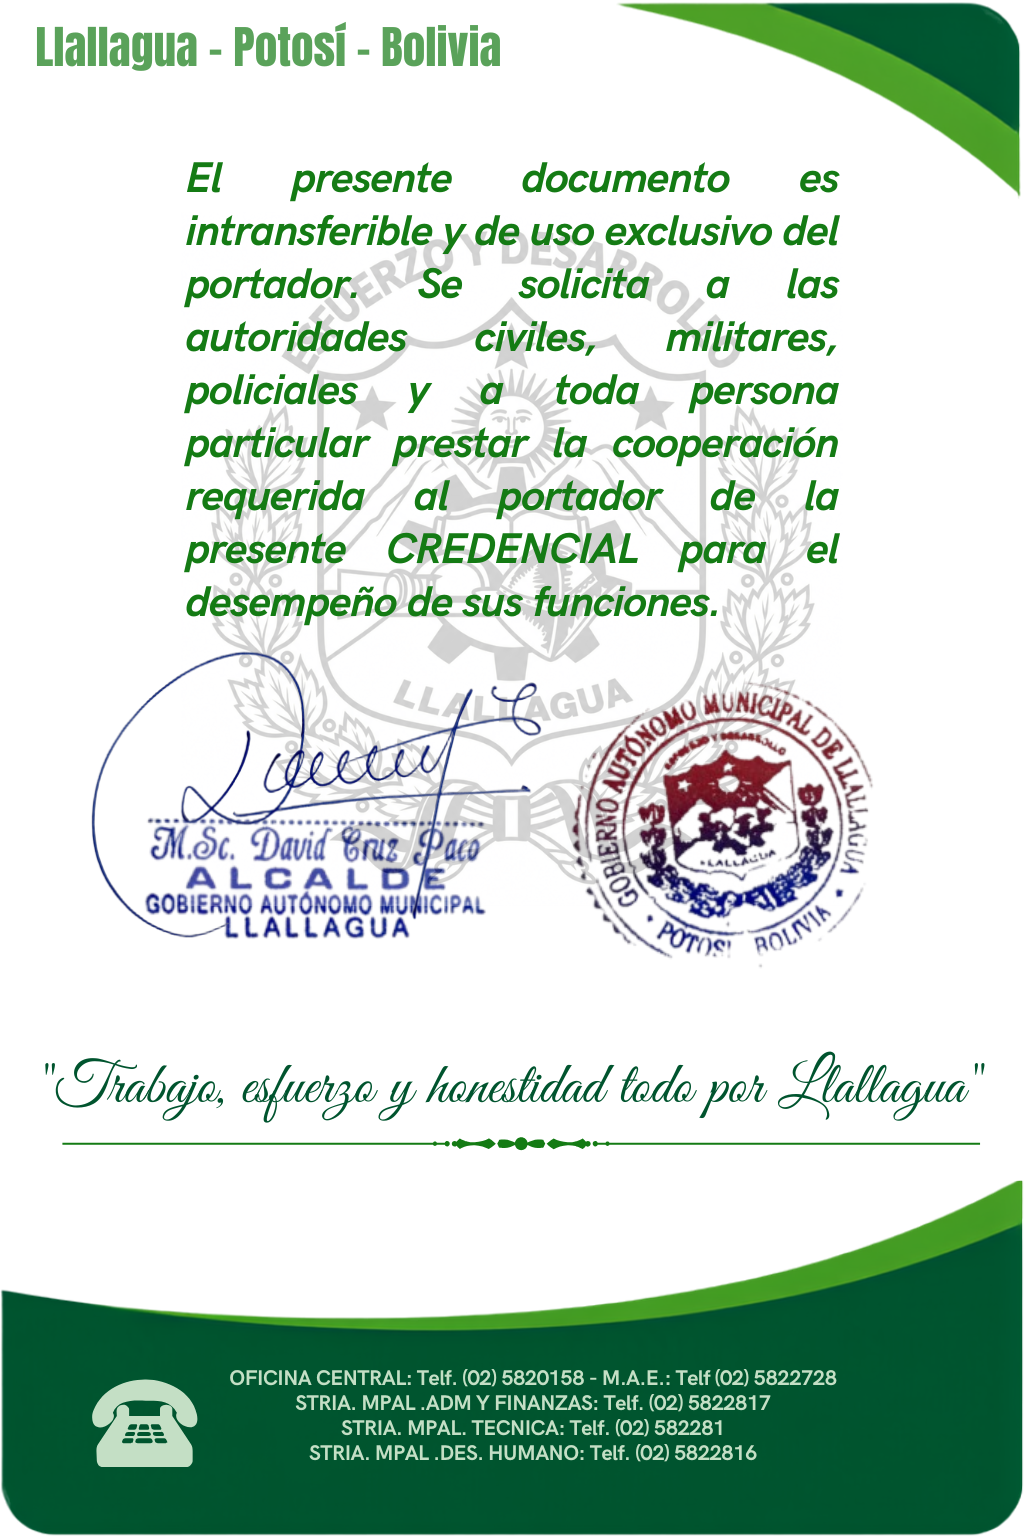
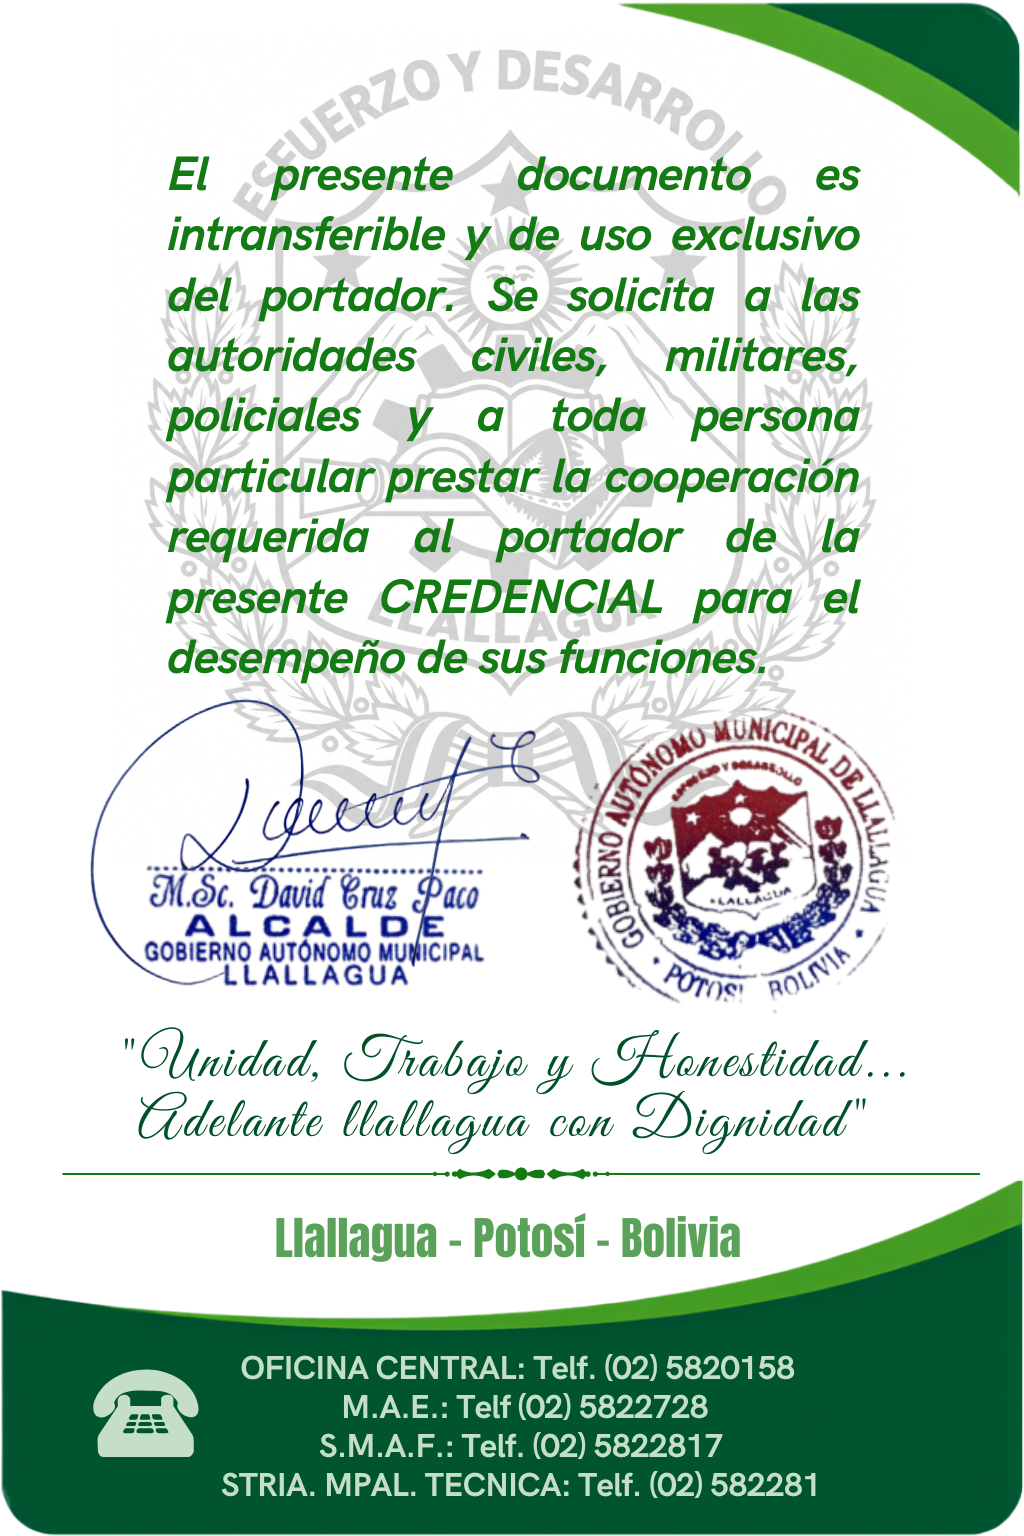
actualizacion

diff --git a/public/css/credencial.css b/public/css/credencial.css
@@ -18,11 +18,11 @@
     /* Ciudad y slogan van 8 px detras de los campos. El slogan se monta 40 px
        sobre el cerro, un poco mas que los 34 px de la maqueta original: es lo
        que queda al bajar el cerro lo maximo posible sin pisar el pie.
-       La ciudad sube 25 em sobre el slogan (87 frente a 112): sin ese extra la
-       cola de la "g" de "Llallagua" (Yellowtail baja ~124 em del top) pisa la
-       palabra "tierra". */
-    --drop-city: 87;
-    --drop-slogan: 112;
+       La ciudad sube 16 em sobre el slogan (82 frente a 98), lo justo para
+       que la cola de la "g" de "Llallagua" (Yellowtail baja ~124 em del top) no
+       pise la palabra "tierra" y el slogan quede lo mas pegado posible. */
+    --drop-city: 82;
+    --drop-slogan: 98;
     /* El Cerro baja mas hasta casi rozar al pie. */
     --drop-cerro: 98;
     /* Separacion entre el rotulo ("Nombres y apellidos:") y su cuadro. */
@@ -542,11 +542,11 @@
 .cred-page--doble {
     --drop-qr: 102;
     --drop-verify: 102;
-    /* La ciudad sube 25 em sobre el slogan (117 frente a 142), igual que en la
+    /* La ciudad sube 16 em sobre el slogan (112 frente a 128), igual que en la
        base: separa "Llallagua" de "tierra de unidad y paz" sin pisar el cuadro
        de "Cargo", que en doble fila acaba mas abajo. */
-    --drop-city: 117;
-    --drop-slogan: 142;
+    --drop-city: 112;
+    --drop-slogan: 128;
 }
 
 /* Imagen decorativa en la esquina superior derecha */
@@ -701,6 +701,12 @@
     background: #fff;
 }
 
+/* Cuando el nombre y el cargo van los dos a una sola fila el bloque de campos
+   es corto y el conjunto queda muy arriba: la foto baja un poco. */
+.cred-page--simple .cred-photo {
+    margin-top: -30em;
+}
+
 /* La foto se puede arrastrar y acercar con el mouse. El clon que se manda a la
    ventana de impresion sale de este mismo elemento, asi que hereda la clase
    editable: por eso las reglas van con body:not(.solo-credencial), que es la
@@ -773,11 +779,22 @@ body:not(.solo-credencial) .cred-photo__img {
     height: 550em;
 }
 
-/* El GAMLL del pie se pone mas grueso, igual que el del encabezado. */
-.impresion-medida .cred-footer {
-    bottom: calc(10 / var(--design-h) * 100%);
+.impresion-medida.cred-page--simple .cred-photo {
+    margin-top: -60em;
 }
 
+/* En la credencial descargada (impresion y PNG) el bloque de campos se acerca
+   mas a la foto de arriba que en la vista previa. */
+.impresion-medida .cred-fields {
+    margin-top: 8em;
+}
+
+/* Si ademas el nombre y el cargo van los dos a dos filas, se pega del todo. */
+.impresion-medida.cred-page--doble .cred-fields {
+    margin-top: -8em;
+}
+
+/* El GAMLL del pie se pone mas grueso, igual que el del encabezado. */
 .impresion-medida .cred-footer span {
     font-weight: 700;
 }
@@ -789,6 +806,15 @@ body:not(.solo-credencial) .cred-photo__img {
     display: flex;
     flex-direction: column;
     gap: calc(15 / var(--design-h) * 100%);
+    /* Cuando el nombre y/o el cargo ocupan una sola fila, el bloque de campos
+       se separa un poco de la foto para no quedar pegado. Solo se pega a la
+       foto cuando AMBOS van a dos filas (clase cred-page--doble), que es el
+       unico caso en el que el bloque es mas alto. */
+    margin-top: 28em;
+}
+
+.cred-page--doble .cred-fields {
+    /* Nombre y cargo a dos filas: el bloque queda pegado a la foto. */
     margin-top: 14em;
 }
 
@@ -854,6 +880,8 @@ body:not(.solo-credencial) .cred-photo__img {
     align-self: flex-start;
     width: 100%;
     min-width: 0;
+    /* Un poco de aire sobre el C.I. para que no quede pegado al Cargo. */
+    margin-top: 14em;
     flex-direction: row;
     align-items: center;
     gap: calc(12 / var(--design-w) * 100%);
@@ -864,19 +892,10 @@ body:not(.solo-credencial) .cred-photo__img {
 }
 
 .cred-field--ci .cred-field__box {
-    flex: 1 1 auto;
-}
-
-.cred-field--ci .cred-field__label {
-    flex-shrink: 0;
-}
-
-.cred-field--ci .cred-field__label {
-    flex-shrink: 0;
-}
-
-.cred-field--ci .cred-field__box {
-    flex: 1 1 auto;
+    /* El cuadro se alarga hasta la mitad de la credencial, un poco mas que los
+       8 numeros justos del C.I. */
+    flex: 0 0 auto;
+    width: 360em;
 }
 
 /* Cerro grande */
@@ -981,7 +1000,7 @@ body:not(.solo-credencial) .cred-photo__img {
     left: 0;
     right: 0;
     margin: 0 auto;
-    bottom: calc(16 / var(--design-h) * 100%);
+    bottom: calc(24 / var(--design-h) * 100%);
     display: flex;
     align-items: center;
     gap: calc(64 / var(--design-w) * 100%);

diff --git a/public/js/credencial.js b/public/js/credencial.js
@@ -34,6 +34,7 @@
     fotoPlaceholder: document.getElementById("preview-foto-placeholder"),
     nombre: document.getElementById("preview-nombre"),
     cargo: document.getElementById("preview-cargo"),
+    ci: document.getElementById("preview-ci"),
   };
 
   try {
@@ -45,6 +46,7 @@
     fotoPlaceholder: document.getElementById("print-foto-placeholder"),
     nombre: document.getElementById("print-nombre"),
     cargo: document.getElementById("print-cargo"),
+    ci: document.getElementById("print-ci"),
   };
 
   const qrImg = {
@@ -174,11 +176,14 @@ const DISENO_H = 1631;
   function renderPreviews() {
     const nombre = stateNombre();
     const cargo = stateCargo();
+    const ci = stateCi();
 
     preview.nombre.textContent = nombre || "—";
     preview.cargo.textContent = cargo || "—";
+    preview.ci.textContent = ci || "—";
     printEl.nombre.textContent = nombre;
     printEl.cargo.textContent = cargo;
+    printEl.ci.textContent = ci;
 
     const foto = stateFoto();
     setPhotoDisplay(preview.foto, preview.fotoPlaceholder, foto);
@@ -186,16 +191,24 @@ const DISENO_H = 1631;
 
     fitText(preview.nombre, 50, 2);
     fitText(preview.cargo, 44, 2);
+    fitText(preview.ci, 46, 1);
     fitText(printEl.nombre, 50, 2);
     fitText(printEl.cargo, 44, 2);
+    fitText(printEl.ci, 46, 1);
 
     // Si el nombre y el cargo ocupan dos filas, el bloque de campos empieza mas
     // abajo y deja el QR y la ciudad pegados: el CSS baja ambos con esta clase.
     // El clon de impresion y el de descarga salen de previewFront, asi que la
     // clase viaja sola a las tres salidas.
     if (previewFront) {
-      const dobleFila = linesOf(preview.nombre) > 1 && linesOf(preview.cargo) > 1;
+      const lineasNombre = linesOf(preview.nombre);
+      const lineasCargo = linesOf(preview.cargo);
+      const dobleFila = lineasNombre > 1 && lineasCargo > 1;
       previewFront.classList.toggle("cred-page--doble", dobleFila);
+      // Si el nombre y el cargo van los dos a una sola fila el bloque queda
+      // corto y el conjunto se ve muy arriba: el CSS baja un poco la foto.
+      const unaFila = lineasNombre <= 1 && lineasCargo <= 1;
+      previewFront.classList.toggle("cred-page--simple", unaFila);
     }
   }
 
@@ -227,6 +240,10 @@ const DISENO_H = 1631;
 
   function stateCargo() {
     return state.rec ? state.rec.cargo : (state.employee ? state.employee.cargo : "");
+  }
+
+  function stateCi() {
+    return state.rec ? state.rec.ci : (state.employee ? state.employee.ci : "");
   }
 
   function stateFoto() {

diff --git a/resources/views/serve/credencial/index.blade.php b/resources/views/serve/credencial/index.blade.php
@@ -141,9 +141,9 @@ $employeesJson = $employees->map(function ($e) {
                 </div>
 
                 <img class="cred-cerro" src="{{ asset('client/images/credencial/cerro.png') }}" alt="" onerror="this.hidden=true">
-                <p class="cred-city">Llallagua</p>
+                <p class="cred-city">Llallagua,</p>
                 <div class="cred-slogan-wrap">
-                  <p class="cred-slogan">tierra de unidad y paz</p>
+                  <p class="cred-slogan">Tierra de unidad y paz</p>
                   <span class="cred-slogan-line" aria-hidden="true"></span>
                 </div>
 
@@ -230,9 +230,9 @@ $employeesJson = $employees->map(function ($e) {
       </div>
 
       <img class="cred-cerro" src="{{ asset('client/images/credencial/cerro.png') }}" alt="" onerror="this.hidden=true">
-      <p class="cred-city">Llallagua</p>
+      <p class="cred-city">Llallagua,</p>
       <div class="cred-slogan-wrap">
-        <p class="cred-slogan">tierra de unidad y paz</p>
+        <p class="cred-slogan">Tierra de unidad y paz</p>
         <span class="cred-slogan-line" aria-hidden="true"></span>
       </div>
 

diff --git a/app/Http/Requests/EmployeeUpdateRequest.php b/app/Http/Requests/EmployeeUpdateRequest.php
@@ -28,6 +28,7 @@ class EmployeeUpdateRequest extends FormRequest
             // 'salarie_id' => 'required',
             'name' => 'required',
             'last_name' => 'required',
+            'ci' => 'nullable|string|max:30',
             'sex' => 'required',
             'address' => 'required',
             'phone' => 'required|integer|unique:employees,phone,' . $this->employee->id,
@@ -47,6 +48,7 @@ class EmployeeUpdateRequest extends FormRequest
             // 'salarie_id.required' => 'Elija su salario',
             'name.required' => 'El campo nombre es obligatorio',
             'last_name.required' => 'El campo apellidos es obligatorio',
+            'ci.max' => 'La cédula no puede superar 30 caracteres',
             'sex.required' => 'Seleccione su genero',
             'address.required' => 'El campo direccion es obligatorio',
             'phone.required' => 'El campo telefono es obligatorio',

diff --git a/app/Http/Requests/EmployeeStoreRequest.php b/app/Http/Requests/EmployeeStoreRequest.php
@@ -33,6 +33,7 @@ class EmployeeStoreRequest extends FormRequest
             // 'salarie_id' => 'required',
             'name' => 'required',
             'last_name' => 'required',
+            'ci' => 'nullable|string|max:30',
             'sex' => 'required',
             'address' => 'required',
             'phone' => 'required|integer|unique:employees,phone',
@@ -52,6 +53,7 @@ class EmployeeStoreRequest extends FormRequest
             // 'salarie_id.required' => 'Elija su salario',
             'name.required' => 'El campo nombre es obligatorio',
             'last_name.required' => 'El campo apellidos es obligatorio',
+            'ci.max' => 'La cédula no puede superar 30 caracteres',
             'sex.required' => 'Seleccione su genero',
             'address.required' => 'El campo direccion es obligatorio',
             'phone.required' => 'El campo telefono es obligatorio',

diff --git a/database/migrations/2026_10_15_000000_add_ci_to_employees_table.php b/database/migrations/2026_10_15_000000_add_ci_to_employees_table.php
@@ -1,0 +1,33 @@
+<?php
+
+use Illuminate\Support\Facades\Schema;
+use Illuminate\Database\Schema\Blueprint;
+use Illuminate\Database\Migrations\Migration;
+
+class AddCiToEmployeesTable extends Migration
+{
+    /**
+     * Run the migrations.
+     *
+     * @return void
+     */
+    public function up()
+    {
+        Schema::table('employees', function (Blueprint $table) {
+            // Cedula de identidad del funcionario, usada en la credencial.
+            $table->string('ci', 30)->nullable()->after('last_name');
+        });
+    }
+
+    /**
+     * Reverse the migrations.
+     *
+     * @return void
+     */
+    public function down()
+    {
+        Schema::table('employees', function (Blueprint $table) {
+            $table->dropColumn('ci');
+        });
+    }
+}

diff --git a/resources/views/serve/employee/partials/form.blade.php b/resources/views/serve/employee/partials/form.blade.php
@@ -37,6 +37,18 @@
         @endif
 		</div>
 	</div>
+	<div class="form-group">
+		{{ Form::label('ci','Cédula de Identidad', ['class'=>'control-label col-md-4 col-sm-4 col-xs-12']) }}
+		<div class="col-md-8 col-sm-8 col-xs-12">
+		{{ Form::text('ci', old('ci'), ['class'=>'form-control', 'placeholder'=>'Ej. 12345678 LP', 'maxlength'=>30]) }}
+		<small>Opcional. Aparece en la credencial como “C.I.”.</small>
+		@if ($errors->has('ci'))
+            <span class="error" role="alert">
+                <strong>{{ $errors->first('ci') }}</strong>
+            </span>
+        @endif
+		</div>
+	</div>
 	{{-- <div class="form-group">
 		{{ Form::label('sex','Sexo', ['class'=>'control-label col-md-4 col-sm-4 col-xs-12']) }}
 		<div class="col-md-8 col-sm-8 col-xs-12">

diff --git a/resources/views/serve/employee/edit.blade.php b/resources/views/serve/employee/edit.blade.php
@@ -66,6 +66,18 @@
         @endif
 		</div>
 	</div>
+	<div class="form-group">
+		{{ Form::label('ci','Cédula de Identidad', ['class'=>'control-label col-md-4 col-sm-4 col-xs-12']) }}
+		<div class="col-md-8 col-sm-8 col-xs-12">
+		{{ Form::text('ci', null, ['class'=>'form-control', 'placeholder'=>'Ej. 12345678 LP', 'maxlength'=>30]) }}
+		<small>Opcional. Aparece en la credencial como “C.I.”.</small>
+		@if ($errors->has('ci'))
+            <span class="error" role="alert">
+                <strong>{{ $errors->first('ci') }}</strong>
+            </span>
+        @endif
+		</div>
+	</div>
 	{{-- <div class="form-group">
 		{{ Form::label('sex','Sexo', ['class'=>'control-label col-md-4 col-sm-4 col-xs-12']) }}
 		<div class="col-md-8 col-sm-8 col-xs-12">

diff --git a/resources/views/serve/employee/index.blade.php b/resources/views/serve/employee/index.blade.php
@@ -32,6 +32,7 @@
 		        <tr>
 		          <th>Nombre(es)</th>
 		          <th>Apellidos</th>
+		          <th>C.I.</th>
 		          <th>Telefono</th>
 		          <th>Fotografia</th>
 		          <th>Cargo</th>
@@ -43,6 +44,7 @@
 		        <tr>
 		          <td>{{ $en->name }}</td>
 		          <td>{{ $en->last_name }}</td>
+		          <td>{{ $en->ci }}</td>
       			  <td>{{ $en->phone }}</td>
           		  <td>
 		          	<img src="{{ asset($en->photo) }}" class="img-responsive" alt="Image" style="width: 40px; height: 40px; border-radius: 50%; margin-left: 30px;">

diff --git a/resources/views/credencial/verificar.blade.php b/resources/views/credencial/verificar.blade.php
@@ -154,6 +154,9 @@
           <div class="row"><dt>Código</dt><dd>{{ $credencial->hash }}</dd></div>
           <div class="row"><dt>Portador</dt><dd>{{ $credencial->nombre }}</dd></div>
           <div class="row"><dt>Cargo</dt><dd>{{ $credencial->cargo }}</dd></div>
+          @if ($credencial->ci)
+            <div class="row"><dt>C.I.</dt><dd>{{ $credencial->ci }}</dd></div>
+          @endif
           <div class="row"><dt>Fecha de emisión</dt><dd>{{ $credencial->fecha ? $credencial->fecha->format('d/m/Y') : '—' }}</dd></div>
         </dl>
       @else

diff --git a/resources/views/serve/employee/show.blade.php b/resources/views/serve/employee/show.blade.php
@@ -29,6 +29,7 @@
 			  <div class="card-body">
 			   <p><strong>Nombres</strong> {{ $employee->name }}</p> 
 			   <p><strong>Apellidos</strong> {{ $employee->last_name }}</p>
+			   <p><strong>C.I.</strong> {{ $employee->ci }}</p>
 			   <p><strong>Genero</strong> {{ $employee->sex }}</p> 
 			   <p><strong>Direccion</strong> {{ $employee->address }}</p>
 			   <p><strong>Telefono</strong> {{ $employee->phone }}</p>

diff --git a/app/Http/Controllers/CredencialController.php b/app/Http/Controllers/CredencialController.php
@@ -244,6 +244,7 @@ class CredencialController extends Controller
             'fecha' => $credencial->fecha ? $credencial->fecha->format('Y-m-d') : null,
             'nombre' => $credencial->nombre,
             'cargo' => $credencial->cargo,
+            'ci' => $credencial->ci,
             'foto' => $credencial->foto,
             'url' => route('verificar', $credencial->hash),
         ];
